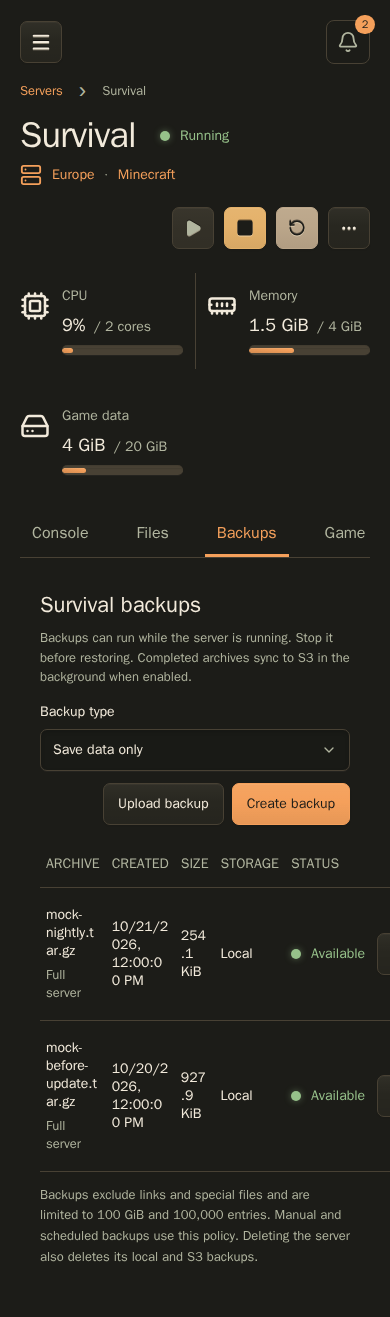
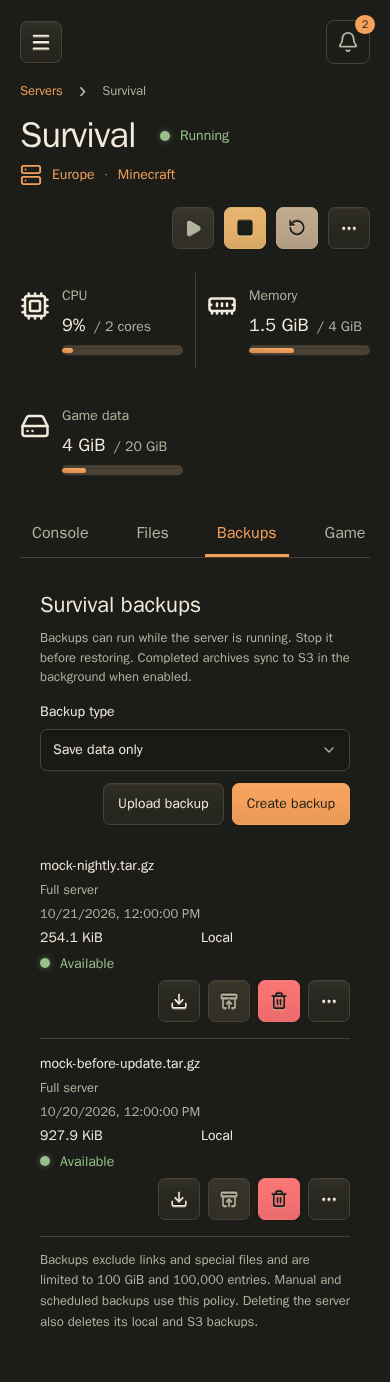
fix: keep backup row actions visible on mobile
Stack backup details at narrow widths and place actions on a full-width row using the shared no-wrap styling. Verify action visibility from 320px through 768px and update the mobile backup screenshot.

diff --git a/web/src/components/servers/ServerBackups.tsx b/web/src/components/servers/ServerBackups.tsx
@@ -275,6 +275,7 @@ export function ServerBackups({ server }: { server: Server }) {
             </InlineMessage>
           )}
         <Table
+          className="server-backups-table"
           empty={entries.length === 0}
           loading={loading}
           error={loadError}
@@ -302,7 +303,7 @@ export function ServerBackups({ server }: { server: Server }) {
           <tbody>
             {entries.map((entry) => (
               <tr key={entry.name}>
-                <td>
+                <td className="backup-archive">
                   <BackupName backup={entry} />
                   {entry.error && (
                     <span className="row-description" role="alert">
@@ -310,9 +311,11 @@ export function ServerBackups({ server }: { server: Server }) {
                     </span>
                   )}
                 </td>
-                <td>{new Date(entry.modified_at).toLocaleString()}</td>
-                <td>{formatBytes(entry.size)}</td>
-                <td>
+                <td className="backup-created">
+                  {new Date(entry.modified_at).toLocaleString()}
+                </td>
+                <td className="backup-size">{formatBytes(entry.size)}</td>
+                <td className="backup-storage">
                   {[
                     entry.local ? i18n.t("serverBackups.local") : null,
                     entry.remote ? "S3" : null,
@@ -320,7 +323,7 @@ export function ServerBackups({ server }: { server: Server }) {
                     .filter(Boolean)
                     .join(" · ") || "—"}
                 </td>
-                <td>
+                <td className="backup-state">
                   <BackupState state={entry.state} />
                 </td>
                 <td className="table-actions">

diff --git a/e2e/backup-modes.spec.ts b/e2e/backup-modes.spec.ts
@@ -21,7 +21,32 @@ test("manual backups send the selected type and save-data restore describes its 
     .click();
   await screenshot(page, "backup-savedata.png");
   await page.setViewportSize({ width: 390, height: 844 });
+  const backups = page.getByRole("table", {
+    name: "Server backups",
+    exact: true,
+  });
+  const firstBackup = backups
+    .getByRole("row")
+    .filter({ hasText: "mock-nightly" });
+  for (const width of [320, 390, 600, 768]) {
+    await page.setViewportSize({ width, height: 844 });
+    const name = firstBackup.getByText("mock-nightly.tar.gz", { exact: true });
+    await name.scrollIntoViewIfNeeded();
+    await expect(name).toBeInViewport({ ratio: 1 });
+    for (const action of await firstBackup.getByRole("button").all())
+      await expect(action).toBeInViewport({ ratio: 1 });
+    await expect(firstBackup.getByRole("link")).toBeInViewport({ ratio: 1 });
+  }
+  await page.setViewportSize({ width: 390, height: 844 });
   await screenshot(page, "backup-savedata-mobile.png");
+  const actions = firstBackup.getByRole("button", {
+    name: /^Backup actions for /,
+  });
+  await actions.click();
+  await expect(
+    page.getByRole("menuitem", { name: "Rename backup", exact: true }),
+  ).toBeVisible();
+  await page.keyboard.press("Escape");
   const request = page.waitForRequest(
     (request) =>
       request.url().endsWith("/servers/survival/actions") &&

diff --git a/web/src/components/servers/backups.css b/web/src/components/servers/backups.css
@@ -1,3 +1,74 @@
 .backup-toolbar > .action-group {
   margin-inline-start: auto;
 }
+
+@container (max-width: 42rem) {
+  .data-table.server-backups-table {
+    display: block;
+
+    & thead {
+      position: absolute;
+      width: 1px;
+      height: 1px;
+      padding: 0;
+      overflow: hidden;
+      clip-path: inset(50%);
+      white-space: nowrap;
+    }
+
+    & tbody {
+      display: block;
+    }
+
+    & tbody tr {
+      display: grid;
+      grid-template-columns: repeat(2, minmax(0, 1fr));
+      grid-template-areas:
+        "archive archive"
+        "created created"
+        "size storage"
+        "state state"
+        "actions actions";
+      gap: 6px 12px;
+      padding-block: 16px;
+      border-bottom: 1px solid var(--border);
+    }
+
+    & td,
+    & tbody tr + tr td,
+    & tbody tr:last-child td {
+      width: auto;
+      min-width: 0;
+      padding: 0;
+      border: 0;
+    }
+
+    & .backup-archive {
+      grid-area: archive;
+    }
+
+    & .backup-created {
+      grid-area: created;
+      color: var(--muted);
+      font-size: 13px;
+    }
+
+    & .backup-size {
+      grid-area: size;
+    }
+
+    & .backup-storage {
+      grid-area: storage;
+    }
+
+    & .backup-state {
+      grid-area: state;
+    }
+
+    & .table-actions {
+      grid-area: actions;
+      width: auto;
+      padding: 0;
+    }
+  }
+}
